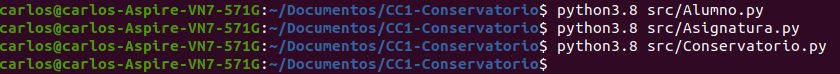
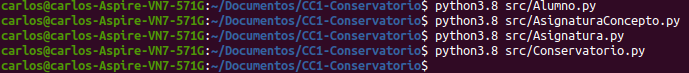
#60 #70 Actualización de la documentación de las clases añadiendo el método __eq__()

diff --git a/docs/clases.md b/docs/clases.md
@@ -8,6 +8,7 @@
     - `matricula_asignatura()`
     - `desmatricula_asignatura()`
     - `to_string()`
+    - `__eq__()`
 
 - Clase [AsignaturaConcepto](https://github.com/Carlossamu7/CC1-Conservatorio/blob/master/src/AsignaturaConcepto.py). Tiene los siguientes atributos:
     - id (`getter`)
@@ -17,6 +18,7 @@
 
   Y los siguientes métodos:
     - `to_string()`
+    - `__eq__()`
 
 - Clase [Asignatura](https://github.com/Carlossamu7/CC1-Conservatorio/blob/master/src/Asignatura.py). Tiene los siguientes atributos:
     - Hereda de AsignaturaConcepto
@@ -26,6 +28,7 @@
 
   Y los siguientes métodos:
     - `to_String()`
+    - `__eq__()`
 
 - Clase [Conservatorio](https://github.com/Carlossamu7/CC1-Conservatorio/blob/master/src/Conservatorio.py). Tiene los siguientes atributos:
     - `nombre_conservatorio` (que es `MiConservatorio`, tiene `getter`)

diff --git a/docs/clasessindetalle.md b/docs/clasessindetalle.md
@@ -30,8 +30,8 @@ src
 
 - Clase [Conservatorio](https://github.com/Carlossamu7/CC1-Conservatorio/blob/master/src/Conservatorio.py). Tiene los siguientes atributos:
     - `nombreConservatorio` (que es `MiConservatorio`, tiene `getter`)
-    - `listaAlum` (`getter`)
-    - `listaAsig` (`getter`)
+    - `dic_alumnos` (`getter`)
+    - `dic_asignaturas` (`getter`)
 
 [Consultar con más detalle los métodos de estas clases.](https://github.com/Carlossamu7/CC1-Conservatorio/blob/master/docs/clases.md)
 
@@ -41,6 +41,7 @@ Ejecutando las órdenes
 
 ```
 python3.8 src/Alumno.py
+python3.8 src/AsignaturaConcepto.py
 python3.8 src/Asignatura.py
 python3.8 src/Conservatorio.py
 ```
